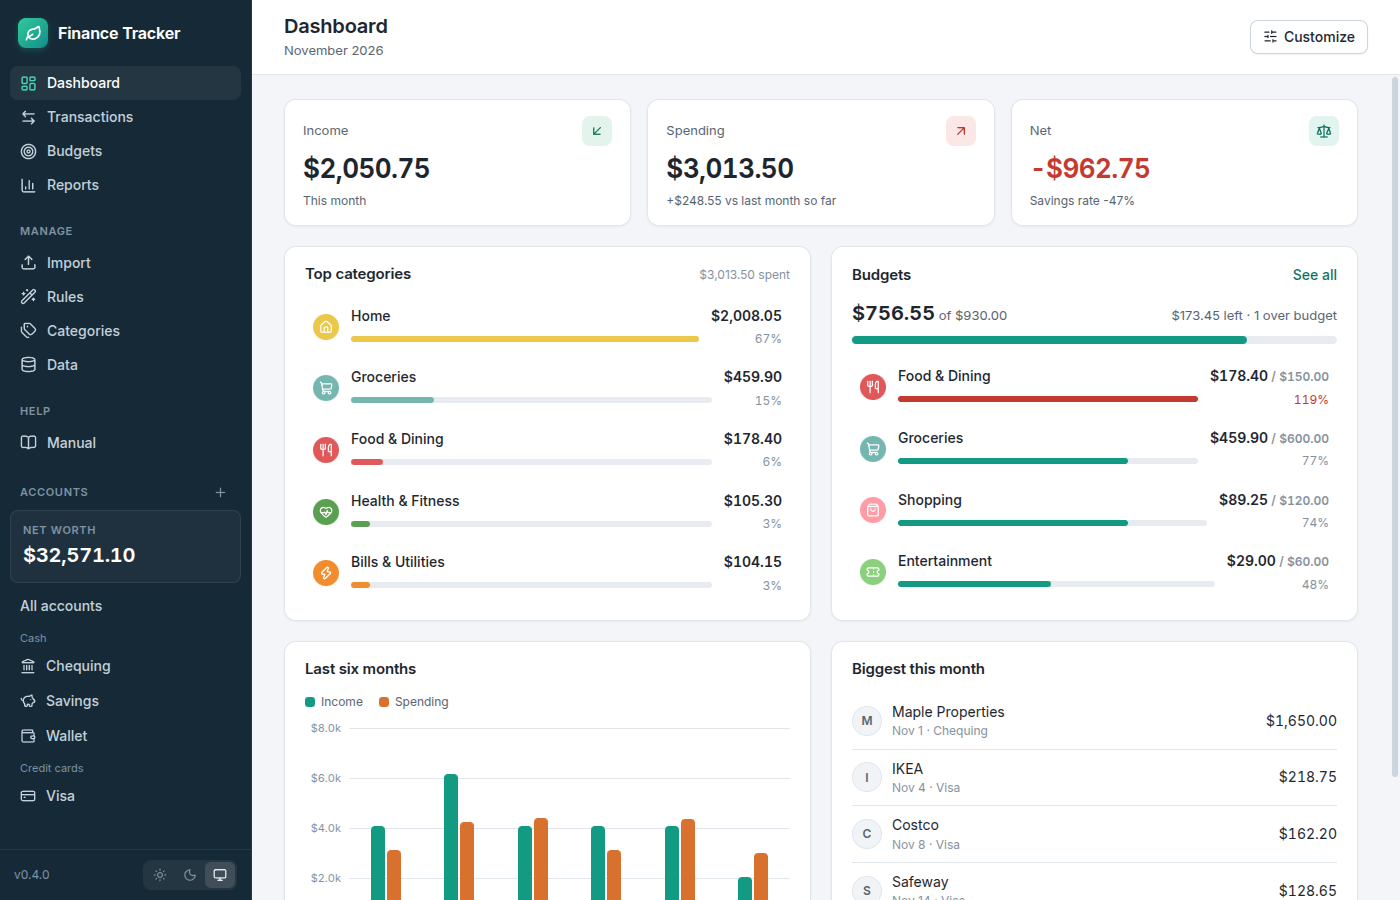
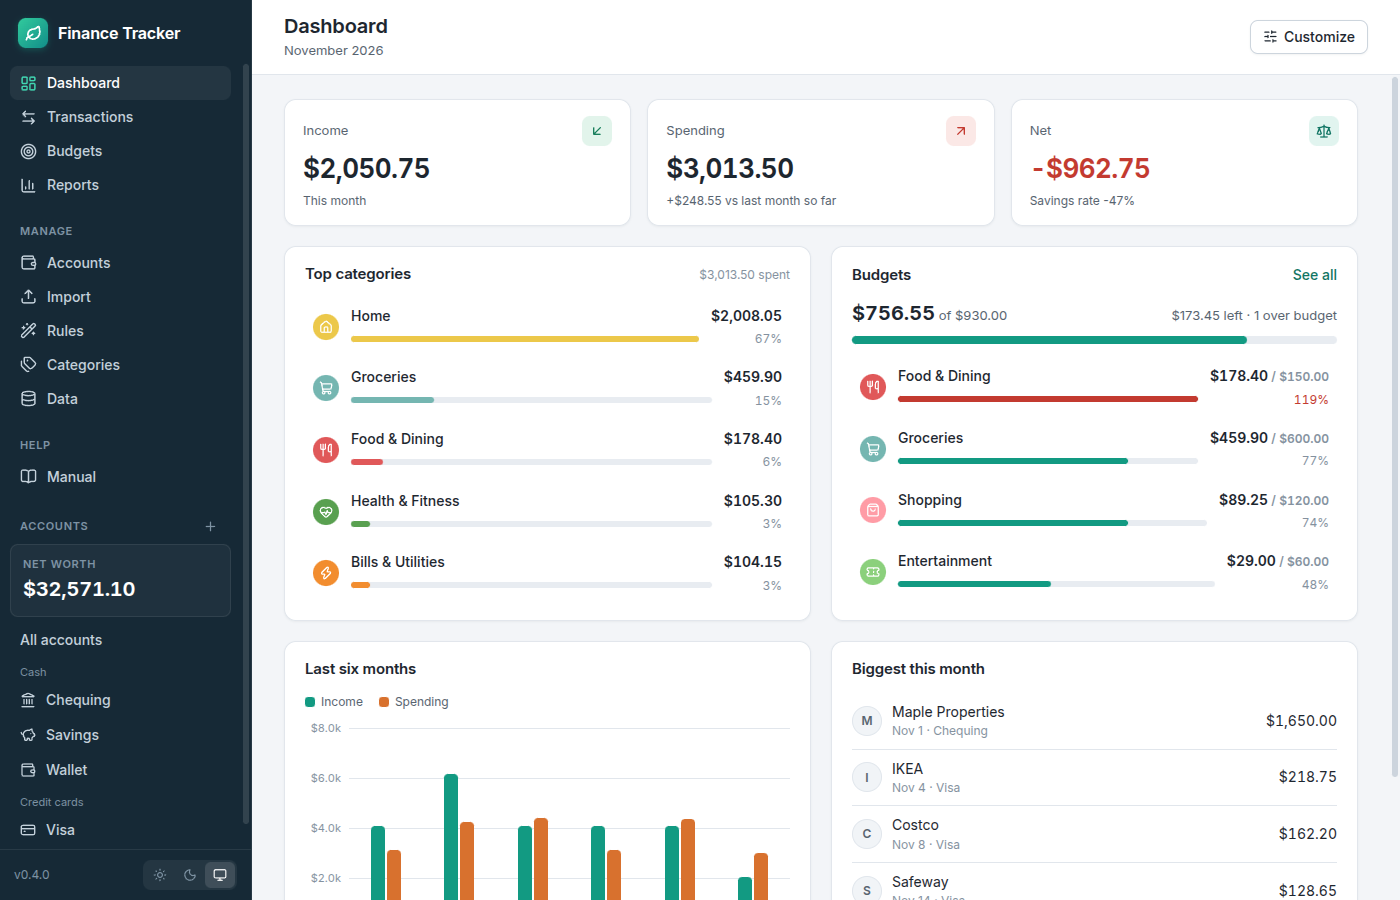
feat: Accounts tab with balances, opened by All accounts
Claude-Session: https://claude.ai/code/session_015k7HiAdTpjfhzJFgrdU148

diff --git a/src/renderer/src/Accounts.tsx b/src/renderer/src/Accounts.tsx
@@ -1,0 +1,100 @@
+import type { AccountWithBalance } from '../../core/ledger/accounts'
+import { formatCents } from '../../core/money'
+import {
+  ACCOUNT_GROUPS,
+  ACCOUNT_ICONS,
+  accountTypeLabel,
+  balanceText,
+  isLiability,
+} from './accountTypes'
+
+interface Props {
+  accounts: AccountWithBalance[]
+  archived: AccountWithBalance[]
+  onOpen: (accountId: number) => void
+}
+
+/** Every account with its type and balance, grouped like the sidebar; a row opens its transactions. */
+export function Accounts({ accounts, archived, onOpen }: Props) {
+  const assets = accounts.filter((a) => !isLiability(a.type)).reduce((s, a) => s + a.balance, 0)
+  const owing = accounts
+    .filter((a) => isLiability(a.type) && a.balance < 0)
+    .reduce((s, a) => s - a.balance, 0)
+  const net = accounts.reduce((s, a) => s + a.balance, 0)
+
+  const rows = (list: AccountWithBalance[]) =>
+    list.map((a) => {
+      const Icon = ACCOUNT_ICONS[a.type]
+      return (
+        <tr key={a.id}>
+          <td>
+            <button
+              type="button"
+              className="link"
+              aria-label={`Open ${a.name}`}
+              onClick={() => onOpen(a.id)}
+              style={{ display: 'inline-flex', gap: 8, alignItems: 'center' }}
+            >
+              <Icon size={16} aria-hidden="true" />
+              {a.name}
+            </button>
+          </td>
+          <td className="subtle">{accountTypeLabel(a.type)}</td>
+          <td className={a.balance < 0 && !isLiability(a.type) ? 'num neg' : 'num'}>
+            {balanceText(a.type, a.balance)}
+          </td>
+        </tr>
+      )
+    })
+
+  return (
+    <div style={{ display: 'flex', flexDirection: 'column', gap: 16 }}>
+      <div className="card">
+        <table>
+          <tbody>
+            <tr>
+              <td>Assets</td>
+              <td className="num">{formatCents(assets)}</td>
+            </tr>
+            <tr>
+              <td>Owing on cards and loans</td>
+              <td className="num">{formatCents(owing)}</td>
+            </tr>
+            <tr>
+              <td>
+                <strong>Net worth</strong>
+              </td>
+              <td className="num">
+                <strong>{formatCents(net)}</strong>
+              </td>
+            </tr>
+          </tbody>
+        </table>
+      </div>
+      {ACCOUNT_GROUPS.map((g) => {
+        const list = accounts.filter((a) => g.types.includes(a.type))
+        if (list.length === 0) return null
+        return (
+          <div className="card" key={g.label}>
+            <div className="card-header">
+              <h3>{g.label}</h3>
+            </div>
+            <table style={{ tableLayout: 'fixed' }}>
+              <tbody>{rows(list)}</tbody>
+            </table>
+          </div>
+        )
+      })}
+      {archived.length > 0 && (
+        <div className="card">
+          <div className="card-header">
+            <h3>Archived</h3>
+          </div>
+          <table style={{ tableLayout: 'fixed' }}>
+            <tbody>{rows(archived)}</tbody>
+          </table>
+        </div>
+      )}
+    </div>
+  )
+}

diff --git a/src/renderer/src/App.tsx b/src/renderer/src/App.tsx
@@ -13,6 +13,7 @@ import {
   Sun,
   Tags,
   Target,
+  Wallet,
   Upload,
   Wand2,
   type LucideIcon,
@@ -34,6 +35,7 @@ import {
 import { CategoriesEditor } from './CategoriesEditor'
 import { CategoryStyleProvider } from './CategoryBadge'
 import { CategoryAliasProvider } from './CategorySelect'
+import { Accounts } from './Accounts'
 import { Budgets } from './Budgets'
 import { Dashboard } from './Dashboard'
 import { Manual } from './Manual'
@@ -56,6 +58,7 @@ import './styles.css'
 type View =
   | 'dashboard'
   | 'ledger'
+  | 'accounts'
   | 'budgets'
   | 'reports'
   | 'import'
@@ -77,6 +80,7 @@ const NAV: { heading?: string; items: { view: View; label: string; icon: LucideI
   {
     heading: 'Manage',
     items: [
+      { view: 'accounts', label: 'Accounts', icon: Wallet },
       { view: 'import', label: 'Import', icon: Upload },
       { view: 'rules', label: 'Rules', icon: Wand2 },
       { view: 'categories', label: 'Categories', icon: Tags },
@@ -87,6 +91,7 @@ const NAV: { heading?: string; items: { view: View; label: string; icon: LucideI
 ]
 
 const SUBTITLES: Partial<Record<View, string>> = {
+  accounts: 'Balances across every account',
   reports: 'Where your money comes from and goes',
   budgets: 'Monthly spending targets by category',
   import: 'Bring in transactions from your bank',
@@ -258,8 +263,11 @@ function Shell() {
                       <button
                         type="button"
                         className="nav-item"
-                        aria-current={view === 'ledger' && accountId === null}
-                        onClick={() => pickAccount(null)}
+                        aria-current={view === 'accounts'}
+                        onClick={() => {
+                          setAccountId(null)
+                          go('accounts')
+                        }}
                       >
                         <span className="grow">All accounts</span>
                       </button>
@@ -377,6 +385,9 @@ function Shell() {
                     version={ledger.version}
                     onOpenCategory={openCategory}
                   />
+                )}
+                {view === 'accounts' && (
+                  <Accounts accounts={ledger.accounts} archived={archived} onOpen={pickAccount} />
                 )}
                 {view === 'budgets' && <Budgets run={ledger.run} version={ledger.version} />}
                 {view === 'import' && (

diff --git a/src/renderer/src/manualContent.ts b/src/renderer/src/manualContent.ts
@@ -121,6 +121,13 @@ export const MANUAL: ManualSection[] = [
     ],
   },
   {
+    id: 'accounts',
+    title: 'Accounts',
+    blocks: [
+      'The Accounts tab (also opened by All accounts in the sidebar) lists every account with its type and balance, grouped as Cash, Credit cards, Loans and Other, with assets, owing and net worth on top. Cards and loans read Owing, and the owing amount is already included in net worth. Click an account to see its transactions. The Transactions tab always shows every account.',
+    ],
+  },
+  {
     id: 'budgets',
     title: 'Budgets',
     blocks: [

diff --git a/.claude/skills/run-finance-tracker/SKILL.md b/.claude/skills/run-finance-tracker/SKILL.md
@@ -23,7 +23,7 @@ xvfb-run -a -s "-screen 0 1440x900x24" node .claude/skills/run-finance-tracker/t
 ```
 
 `tour.mjs` covers search, rules and CSV import; `import-formats.mjs` covers OFX, QFX (fitid duplicates) and Mint import from `test-data/import/`; `reports.mjs` covers the dashboard,
-reports and the drill-down; `categories.mjs` covers the Categories tab (add, merge, rename, delete with reassign); `accounts-dashboard.mjs` covers account edit, archive and delete and the dashboard Customize panel; `budgets.mjs` covers the Budgets tab (add and edit dialogs, month stepper, remove); `rules.mjs` covers the Rules tab (editor dialog, reorder, turn off, preview and apply, delete); `data.mjs` covers the Data tab (backups, export, CSV, staged restore); `duplicates.mjs` covers Find duplicates (keep one, cross-account), the names-only sidebar and the all-accounts Transactions tab; `transactions.mjs` covers the Transactions dialogs, filters, bulk bar, row menu, split and the in-app confirms; `screens.mjs [outDir]` screenshots every screen in light and dark for look-and-feel review. The app opens on the Dashboard tab.
+reports and the drill-down; `categories.mjs` covers the Categories tab (add, merge, rename, delete with reassign); `accounts-dashboard.mjs` covers account edit, archive and delete and the dashboard Customize panel; `budgets.mjs` covers the Budgets tab (add and edit dialogs, month stepper, remove); `rules.mjs` covers the Rules tab (editor dialog, reorder, turn off, preview and apply, delete); `data.mjs` covers the Data tab (backups, export, CSV, staged restore); `accounts-page.mjs` covers the Accounts tab; `duplicates.mjs` covers Find duplicates (keep one, cross-account), the names-only sidebar and the all-accounts Transactions tab; `transactions.mjs` covers the Transactions dialogs, filters, bulk bar, row menu, split and the in-app confirms; `screens.mjs [outDir]` screenshots every screen in light and dark for look-and-feel review. The app opens on the Dashboard tab.
 
 `lib.mjs` exports `launch()` returning `{ app, page, errors, shot, stubOpenDialog }`.
 Write new flows as small scripts that import it. Then read the PNGs.

diff --git a/docs/handoffs/2026-11-14_accounts-page.md b/docs/handoffs/2026-11-14_accounts-page.md
@@ -1,0 +1,25 @@
+# Session Handoff: 2026-11-14 (Accounts page)
+
+## Summary
+
+The sidebar lost its balances (previous PR), so "All accounts" had nowhere to show them. Added an
+Accounts tab (design note 15).
+
+## Completed
+
+- `Accounts.tsx`: assets, owing and net worth summary; one card per account group with type and
+  balance (liabilities read Owing); archived card; click a row to open its transactions.
+- Nav item "Accounts" under Manage. The sidebar's "All accounts" opens it; the Transactions tab
+  still shows all transactions.
+- Manual, changelog, design note 15, `accounts-page.mjs` skill script, README screenshots.
+
+## Current state
+
+`npm run check` passes. Clicked through headless: no page errors. Still v0.4.0 (Unreleased holds
+this and the previous PR); no release cut on purpose.
+
+## Next actions
+
+1. Owner reviews the Accounts page. Possible follow-ups: add/edit/archive from the page, dashboard
+   widget, sparkline per account.
+2. Remaining items from the v0.4.0 handoff (real-UI checks, budget rollover decision).

diff --git a/docs/design/15_accounts_page.md b/docs/design/15_accounts_page.md
@@ -1,0 +1,10 @@
+# Accounts page
+
+The sidebar shows account names only (feedback 2026-11-14), so balances moved to an Accounts tab.
+
+- Nav item "Accounts" under Manage; the sidebar's "All accounts" opens it too.
+- Summary card: assets, owing on cards and loans, net worth (owing is already inside net worth).
+- One card per sidebar group (Cash, Credit cards, Loans, Other) listing name, type and balance
+  text (`balanceText`, so liabilities read Owing). Archived accounts get their own card.
+- Clicking an account opens its transactions. The Transactions tab always shows all accounts.
+- Read-only: add, edit, archive and delete stay in the sidebar and Edit account dialog.

diff --git a/CHANGELOG.md b/CHANGELOG.md
@@ -7,6 +7,8 @@ All notable changes to this project are documented here. The format is based on
 
 ### Added
 
+- Accounts tab: every account with type and balance, plus assets, owing and net worth; opened by
+  All accounts in the sidebar.
 - Find duplicates: "Keep first, delete rest" per group and "Keep one of each" for all groups, with
   one Undo; a group always keeps one row.
 - Find duplicates can match across accounts (on by default).
